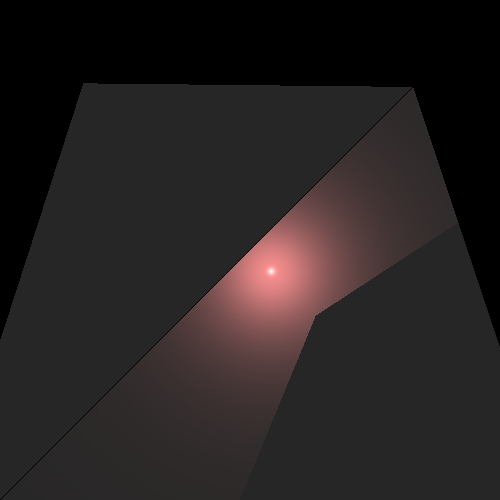
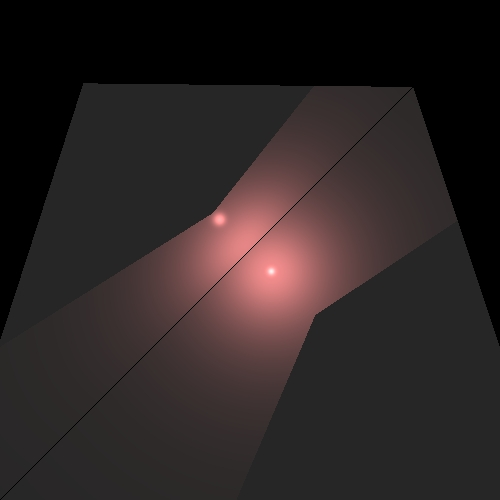
kjuhg

Changed region(s): [[0.24, 0.24, 0.69, 0.69]]

diff --git a/src/geometries/Sphere.java b/src/geometries/Sphere.java
@@ -41,7 +41,7 @@ public class Sphere extends RadialGeometry {
     }
 
     @Override
-    public List<GeoPoint> findIntersections(Ray ray) {
+    public List<GeoPoint> findIntersections(Ray ray,double max) {
         Vector L=_center.subtract(ray.getPoint());
         Vector V=ray.getVector();
         double tm=(L.dotProduct(V));
@@ -53,23 +53,40 @@ public class Sphere extends RadialGeometry {
         double t2=alignZero(tm+th);
         Point3D point1=ray.getTargetPoint(t1);
         Point3D point2=ray.getTargetPoint(t2);
+        double t1MaxDistance=alignZero(t1-max);
+        double t2MaxDistance=alignZero(t2-max);
         if (t1>0 && t2>0 ){
-            if (ray.getPoint()!=point1 && ray.getPoint()!=point2)
-                return List.of(new GeoPoint(this,point1),new GeoPoint(this,point2));
+            if (t1MaxDistance<=0 && t2MaxDistance<=0) { //verify if the t1 and t2 are behind the light for calculate shadow
+                if (ray.getPoint() != point1 && ray.getPoint() != point2){
+                    return List.of(new GeoPoint(this, point1), new GeoPoint(this, point2));
+                }
+                else //if t1 and t2 both are behind the light return null
+                    return null;
+            }
+            //if the t1
             else
                 return null;
         }
         if (t1<=0&&t2<=0)
             return null ;
-        if (t1 > 0 )
-            if (ray.getPoint()!=point1)
-                 return List.of(new GeoPoint(this,(ray.getTargetPoint(t1))));
+        if (t1 > 0)
+            if(t1MaxDistance<=0) {
+                if (ray.getPoint() != point1)
+                    return List.of(new GeoPoint(this, (ray.getTargetPoint(t1))));
+                else
+                    return null;
+            }
             else
                 return null;
-        else
-            if (ray.getPoint()!=point2)
-                return List.of(new GeoPoint(this,ray.getTargetPoint(t2)));
+        else {// t2>0
+            if (t2MaxDistance <= 0) {
+                if (ray.getPoint() != point2)
+                    return List.of(new GeoPoint(this, ray.getTargetPoint(t2)));
+                else
+                    return null;
+            }
             else
                 return null;
+        }
     }
 }

diff --git a/src/renderer/Render.java b/src/renderer/Render.java
@@ -136,12 +136,12 @@ public class Render {
      */
     private boolean unshaded( Vector n, Intersectable.GeoPoint gp,LightSource lightSource ){
         //we inverse the direction of the ray which go out from the light
-        Vector LightDirection=lightSource.getL(gp.point).Scale(-1);
+        Vector l=lightSource.getL(gp.point).Scale(-1);
         Point3D geometryPoint=new Point3D(gp.point);
-        n.Scale(DELTA);
-        Point3D newPoint=geometryPoint.add(n);
-        Ray lightRay=new Ray(newPoint,LightDirection);
-        List<Intersectable.GeoPoint> intersectionPoints=scene.getGeometries().findIntersections(lightRay);
+        Vector epsVector=n.Scale(n.dotProduct(l)>0?DELTA:-DELTA);
+        Point3D newPoint=geometryPoint.add(epsVector);
+        Ray lightRay=new Ray(newPoint,l);
+        List<Intersectable.GeoPoint> intersectionPoints=scene.getGeometries().findIntersections(lightRay,lightSource.getDistance(gp.point));
         if (intersectionPoints==null) {
             return true;
         }

diff --git a/src/geometries/Plane.java b/src/geometries/Plane.java
@@ -70,7 +70,7 @@ public class Plane extends Geometry {
     }/*///de Dan
 
     @Override
-    public List<GeoPoint> findIntersections(Ray ray) {
+    public List<GeoPoint> findIntersections(Ray ray,double max) {
         Vector p0Q;
         try {
             p0Q = _p.subtract(ray.getPoint());
@@ -82,6 +82,7 @@ public class Plane extends Geometry {
             return null;
         double t = alignZero(_normal.dotProduct(p0Q) / nv);
         Point3D newPoint=ray.getTargetPoint(t);
-        return t <= 0 || newPoint==ray.getPoint() ? null : List.of(new GeoPoint(this,newPoint));//if the point of intersection is the same point than the point of ray return null
+        double tMaxDistance=alignZero(t-max);
+        return t <= 0 || newPoint==ray.getPoint() || tMaxDistance>0 ? null : List.of(new GeoPoint(this,newPoint));//if the point of intersection is the same point than the point of ray return null
     }
 }

diff --git a/src/geometries/Intersectable.java b/src/geometries/Intersectable.java
@@ -10,7 +10,11 @@ import java.util.Objects;
  */
 public interface Intersectable {
 
-    List<GeoPoint> findIntersections(Ray ray);
+    default List<GeoPoint> findIntersections(Ray ray) {
+        return findIntersections(ray, Double.POSITIVE_INFINITY);
+    }
+    List<GeoPoint> findIntersections(Ray ray, double max);
+
     public static class GeoPoint{
         public Geometry geometry;
         public Point3D point;

diff --git a/src/geometries/Geometries.java b/src/geometries/Geometries.java
@@ -35,7 +35,7 @@ public class Geometries implements Intersectable {
     2) we will checked at each shape intersections's points
     finally return the list of points resulted by this research
     * */
-    public List<GeoPoint> findIntersections(Ray ray) {
+    public List<GeoPoint> findIntersections(Ray ray,double max) {
         List<GeoPoint> intersections = null;
 
         for (Intersectable geometry : list) {

diff --git a/src/geometries/Polygon.java b/src/geometries/Polygon.java
@@ -102,7 +102,7 @@ public class Polygon extends Geometry {
     }
 
     @Override
-    public List<GeoPoint> findIntersections(Ray ray) {
+    public List<GeoPoint> findIntersections(Ray ray,double max) {
         List<GeoPoint> palaneIntersections = _plane.findIntersections(ray);
         if (palaneIntersections == null)
             return null;

diff --git a/src/geometries/Tube.java b/src/geometries/Tube.java
@@ -68,7 +68,7 @@ public class Tube extends RadialGeometry {
     }
 
     @Override
-    public List<GeoPoint> findIntersections(Ray ray)
+    public List<GeoPoint> findIntersections(Ray ray,double max)
     {
         return null;
     }

diff --git a/src/geometries/Cylinder.java b/src/geometries/Cylinder.java
@@ -64,8 +64,7 @@ public class Cylinder extends Tube {
 
 
     @Override
-    public List<GeoPoint> findIntersections(Ray ray) {
-
+    public List<GeoPoint> findIntersections(Ray ray,double max) {
             return null;
     }
 }
